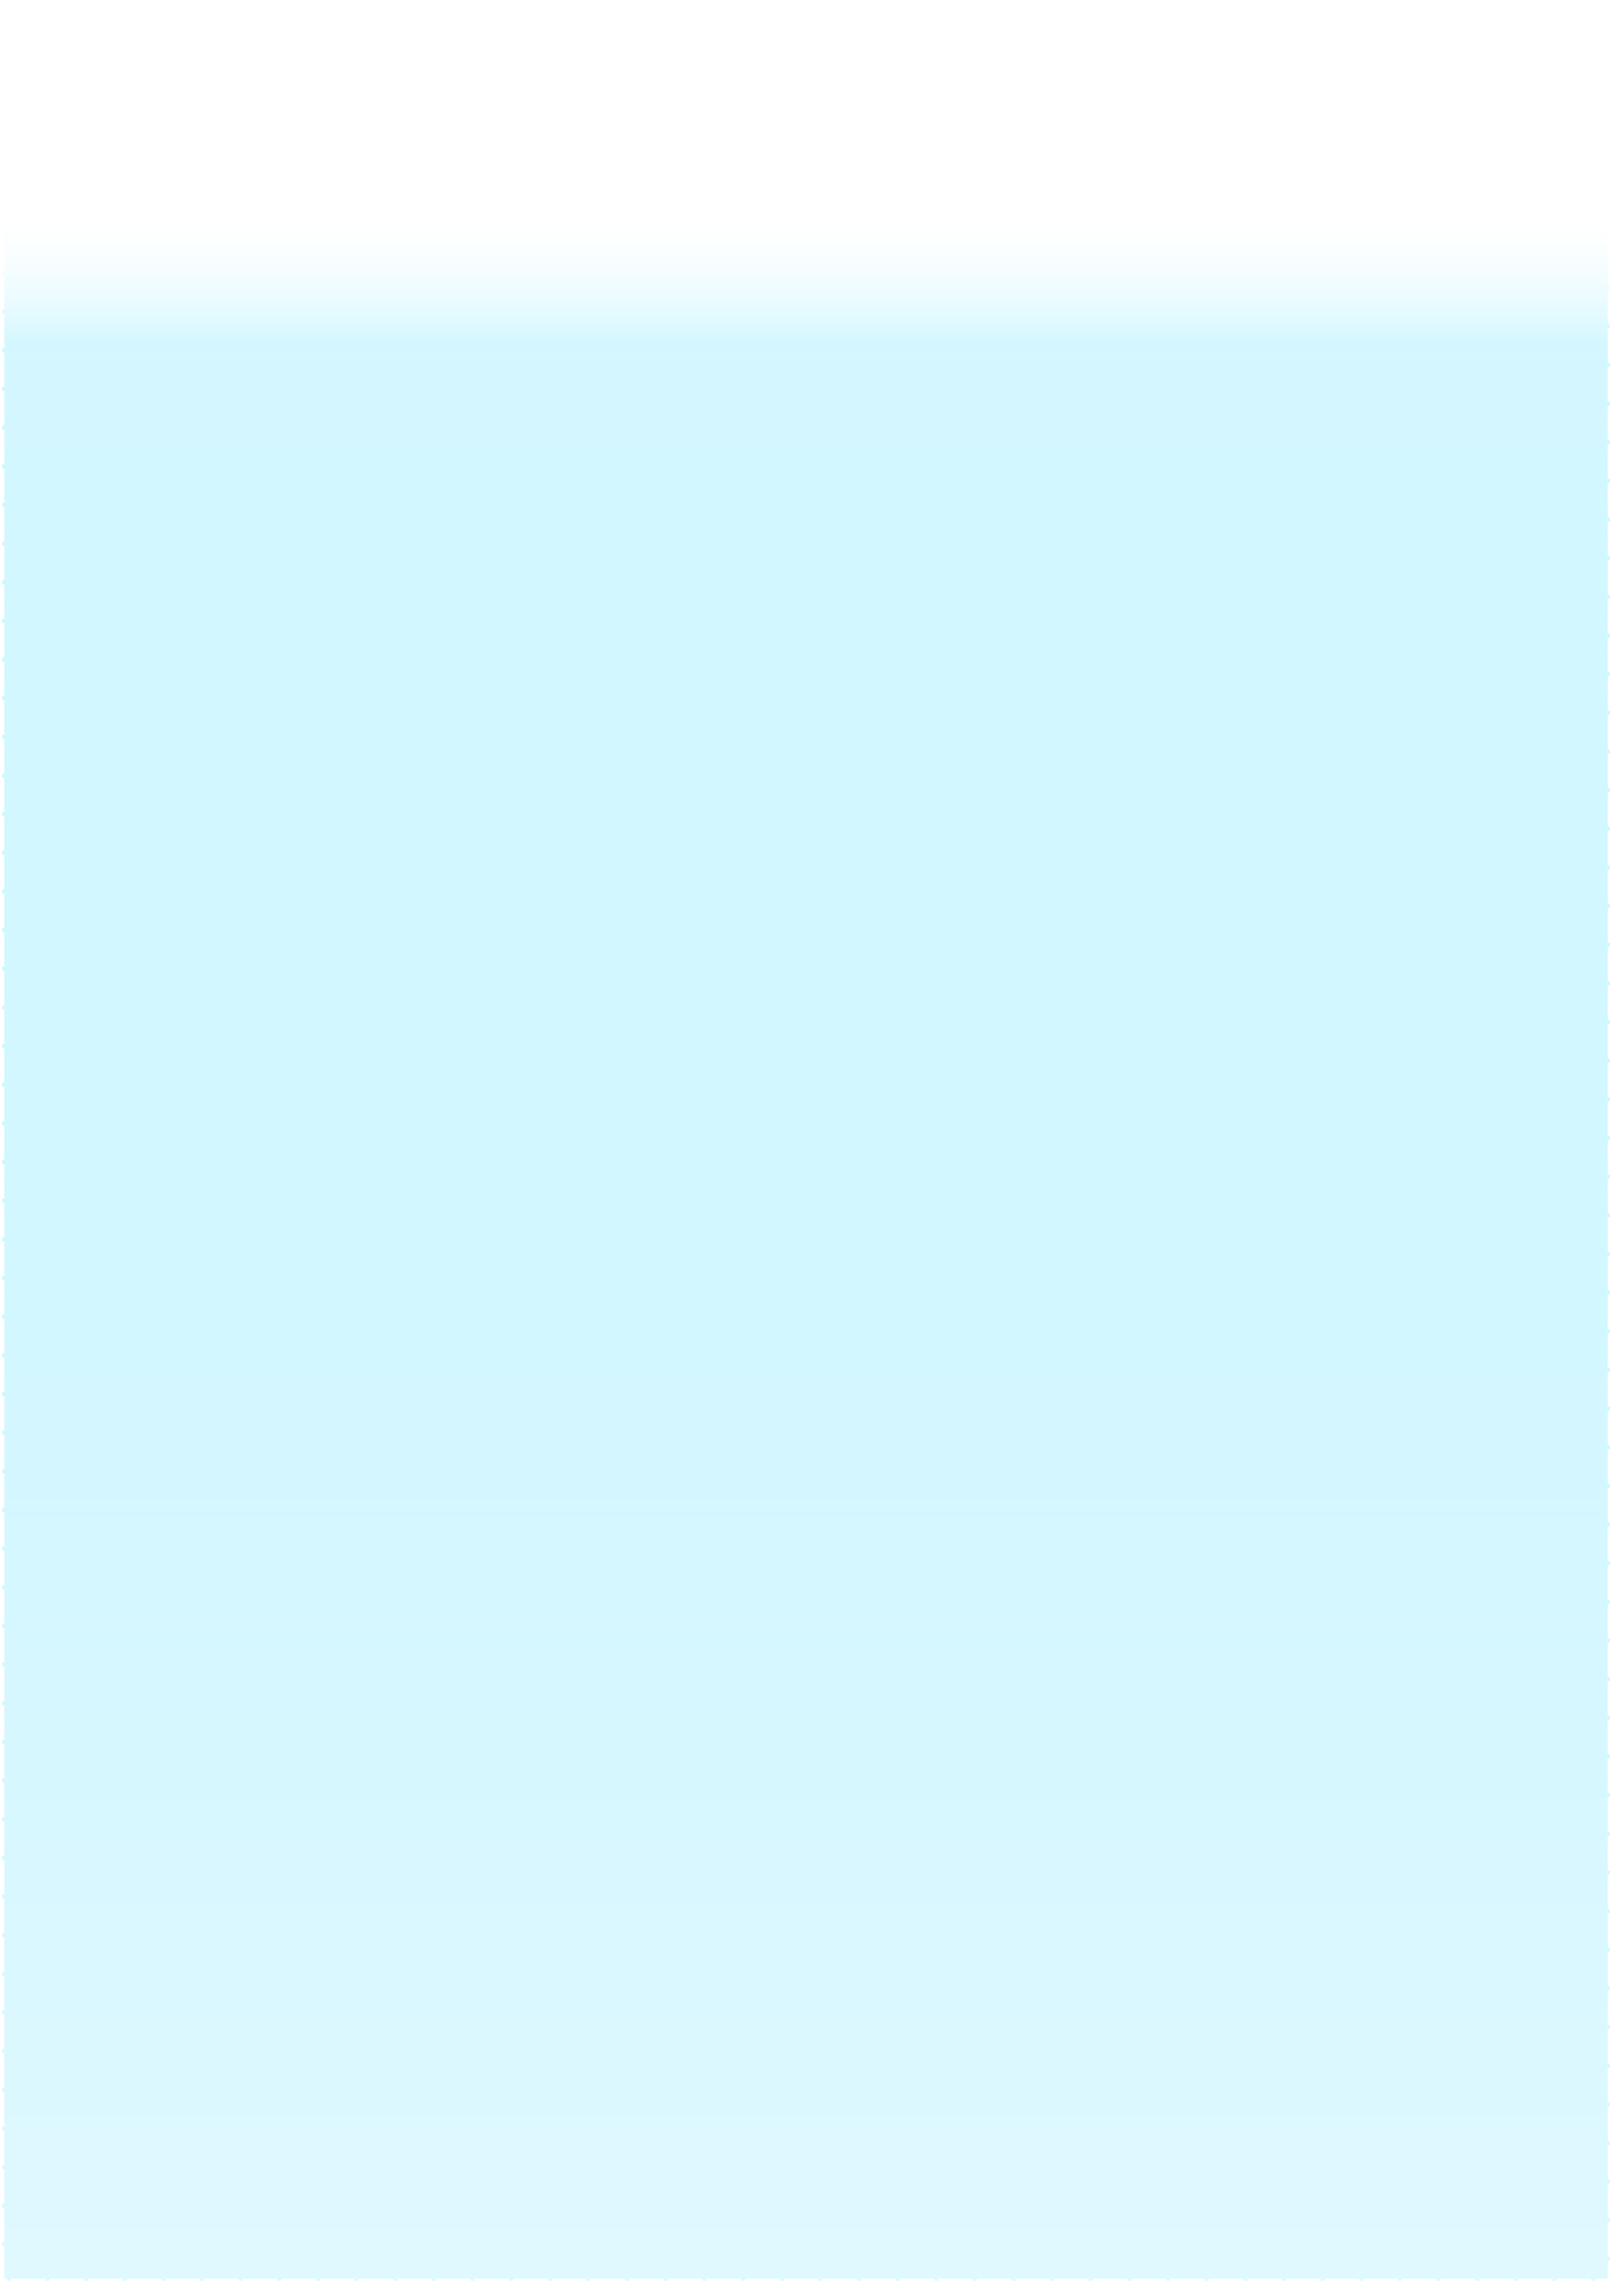
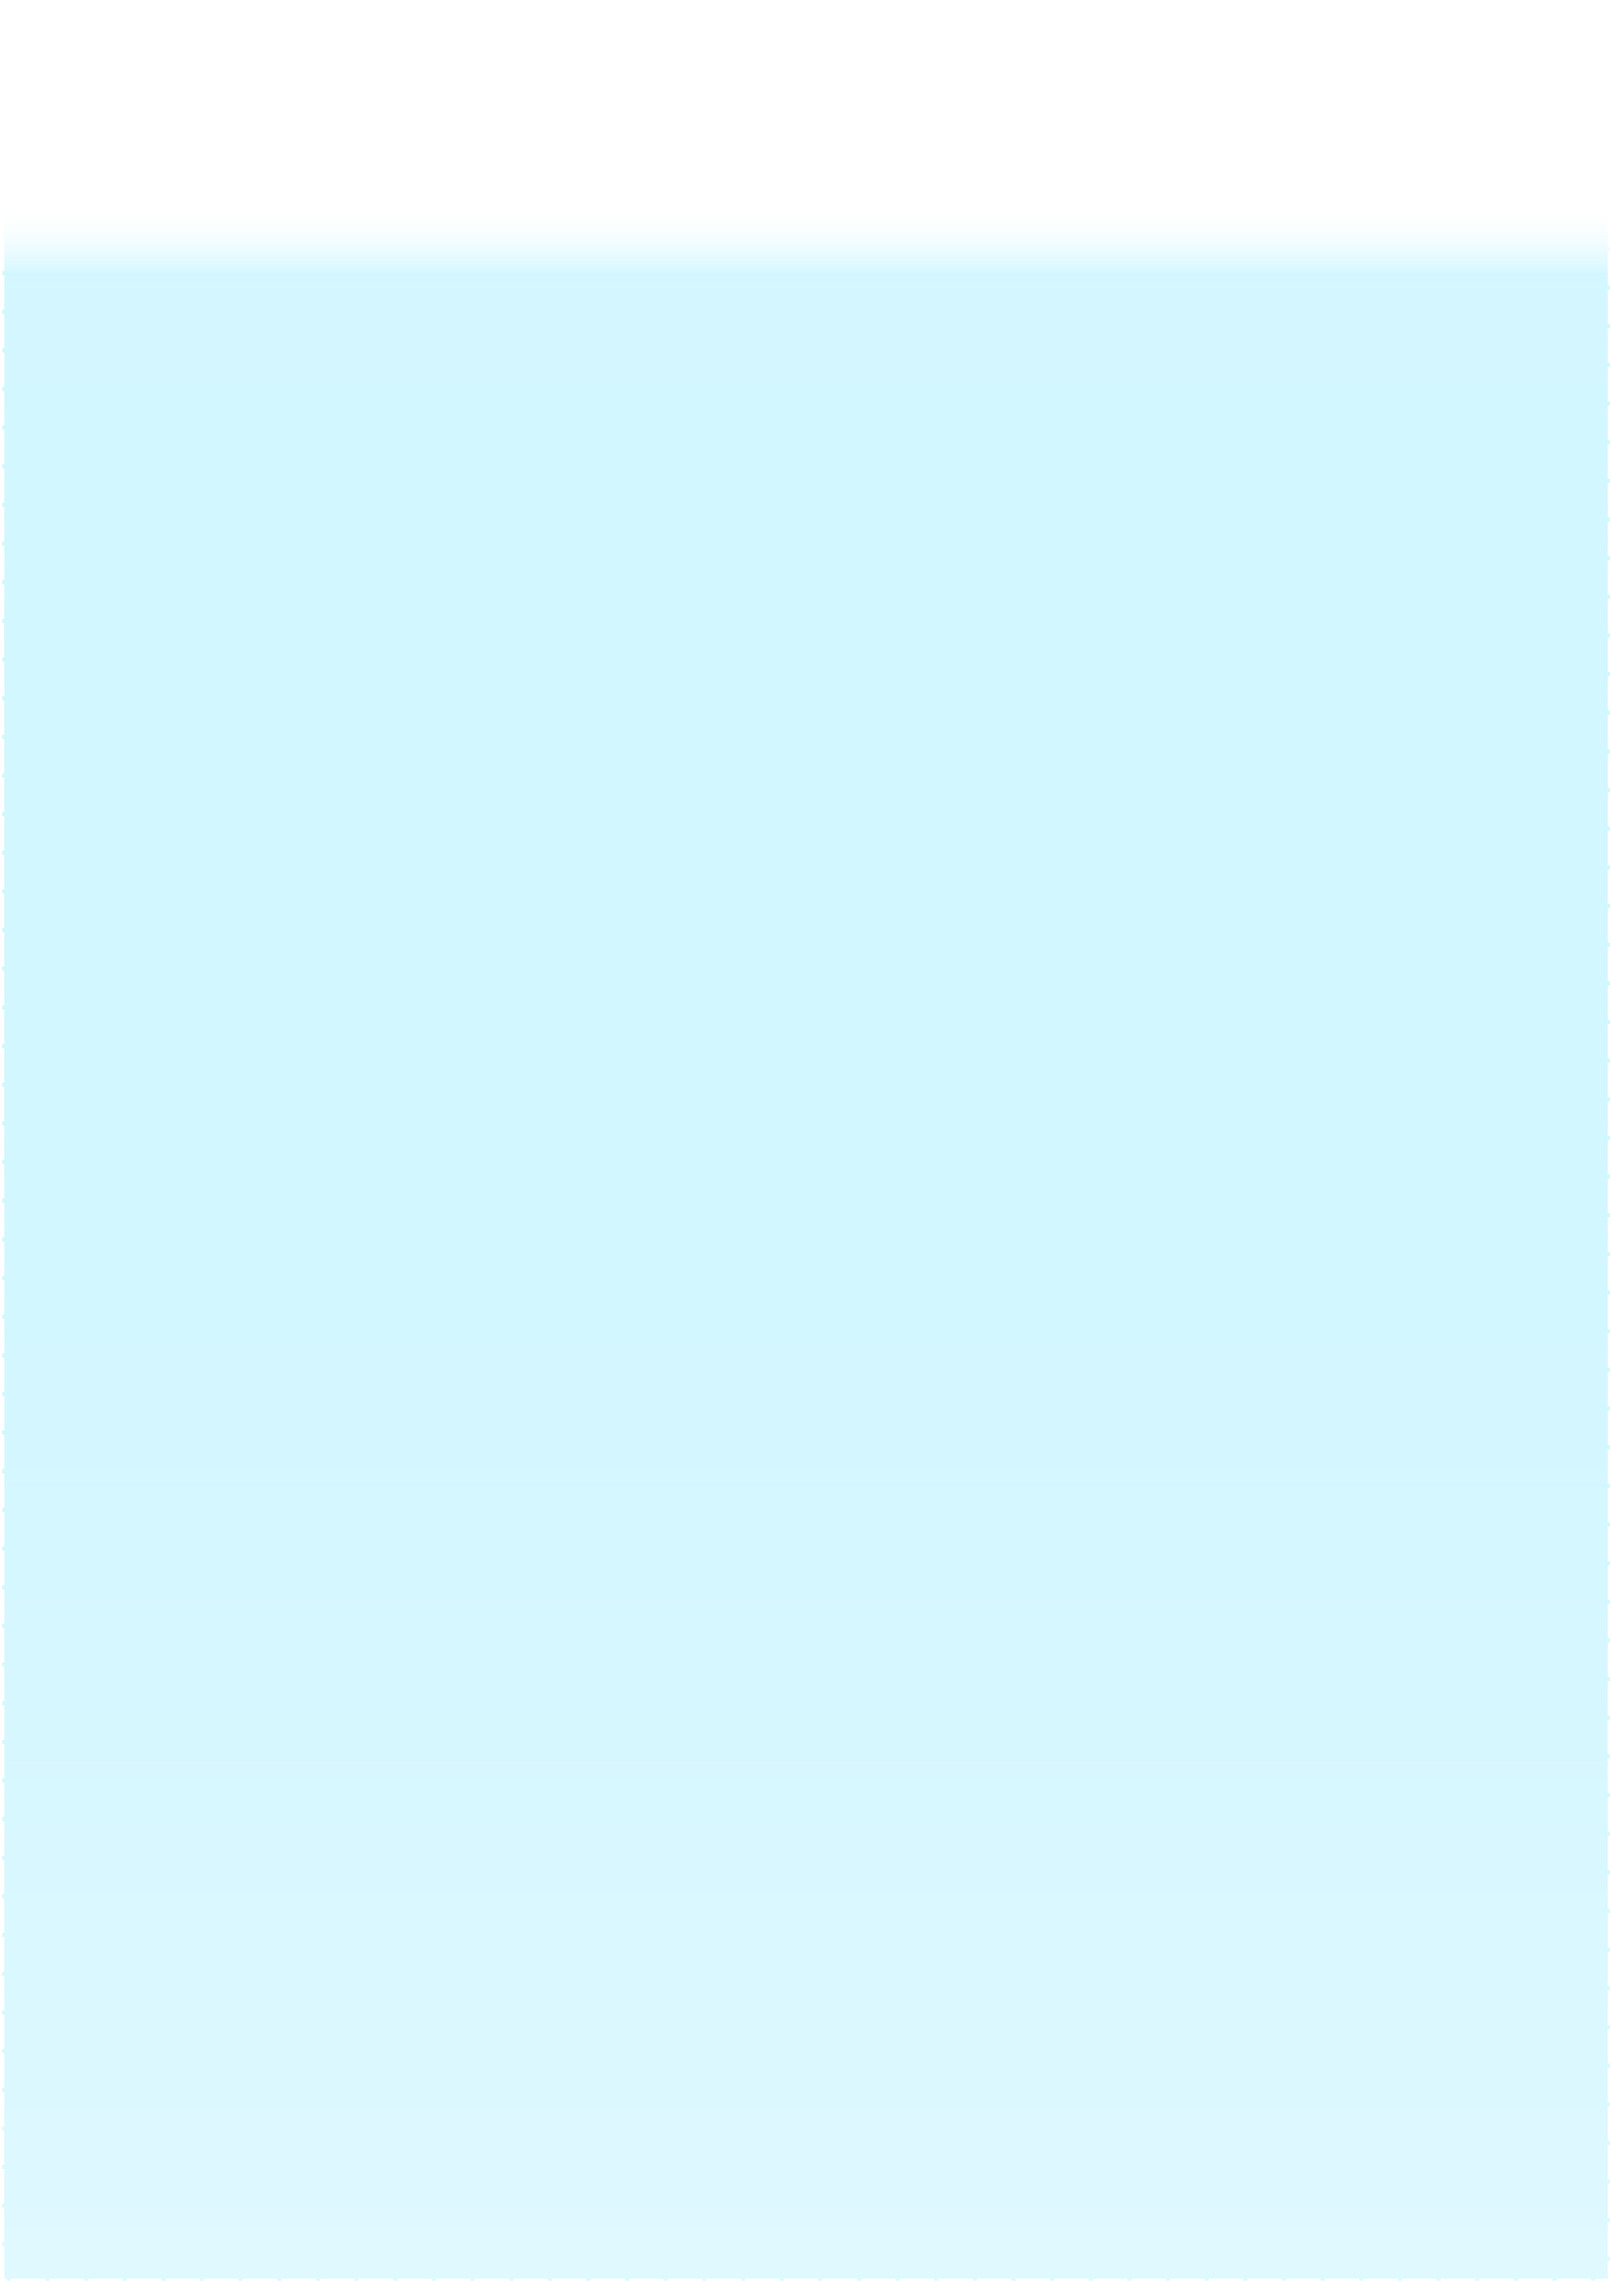
[Modelica2014] final version of the Modelica Poster

Changed region(s): [[0.0, 0.0934, 0.9962, 0.1556]]

diff --git a/Modelica2014/poster/poster.tex b/Modelica2014/poster/poster.tex
@@ -40,6 +40,9 @@
 		%bgColorOne=white,
 		columns=3,
 		eyecatcher=false,
+		colspacing=6pt,
+		linewidth=1pt,
+		headerheight=0.085\textheight,
 		textborder=rectangle,
 		boxColorOne=white,
 		 % Background color of the content boxes
@@ -69,26 +72,27 @@ $^*${\{rhama.dwiputra, roustiam.chakirov, erwin.prassler\}@h-brs.de}, $^+${alexe
 %---------------------------------------
 
 	\headerbox{Background}{name=background, column=0, row=0}{
-		The \emph{youBot} is a mobile manipulator designed to serve as the reference platform for industry, research and education \cite{Bischoff2011}.
-		Due to its frequent use for educational purpose or investigation of new methods, a model of the youBot is highly advantageous.  
+		The \emph{youBot} is designed to serve as the reference platform for industry, research and education \cite{Bischoff2011}.
+		Due to its frequent use for educational purpose and experiments, a model of the youBot is advantageous.  
 	}
 %---------------------------------------
 % Approach
 %---------------------------------------
 	
 	\headerbox{Approach}{name=Approach, column=1, row=0, span=2}{
-\begin{wrapfigure}{r}{0.44\textwidth}
+\begin{wrapfigure}{r}{0.46\textwidth}
    \begin{center}
    \vspace{-5pt}
-	\includegraphics[width=0.44\textwidth]{\imagedirectory{AbstractionLayer}}\\
+	\includegraphics[width=0.43\textwidth]{\imagedirectory{AbstractionLayer}}\\
  	\label{fig:abstraction-layers}
  	 \vspace{5pt}
  	 \smaller{Component-based development.}
  	 \end{center}
  \end{wrapfigure}	
 	
-The library is developed with emphasize on modularity, and re-usability.
-Additionally, the manipulator model is developed in abstraction layers where the lower layer provides a more detailed information and the upper layer provides the general overview of the system.
+The project emphasize on modularity and re-usability.
+The manipulator model is developed with a library for its components. 
+The model development is followed with a comparison test to observe the model accuracy.
 
 }
 
@@ -100,23 +104,47 @@ Additionally, the manipulator model is developed in abstraction layers where the
 
 	\headerbox{Result and Evaluation}{name=resultandevaluation, column=0, below=background, span=3}{
 \begin{figure}[H]
-   \vspace{-5pt}
+   \vspace{-10pt}
 	\begin{subfigure}[b]{0.72\textwidth}
-	\includegraphics[width=1.0\textwidth]{\imagedirectory{overview}}
+	\centering
+	\includegraphics[width=1\textwidth]{\imagedirectory{overview}}
 	\label{fig:youBot-overview}	
 	\end{subfigure}
 	~
 	\begin{subfigure}[b]{0.24\textwidth}
-	\includegraphics[width=1.0\textwidth]{\imagedirectory{parameters-and-evaluation}}
+	\centering
+	\includegraphics[width=1\textwidth]{\imagedirectory{parameters-and-evaluation}}
 	\label{fig:youBot-overview}	
 	\end{subfigure}\\
 	\centering   
-	\smaller{Model overview, parameter configuration and evaluation}
+	\smaller{Model overview, parameter configuration and comparison test.}
 \end{figure}
  \vspace{-10pt}
-A model is a representation of the actual system and the benefit of having a model only holds true when the model is accurate \cite{Fritzon2004}.
-the development of the manipulator model is followed by a test with the actual system.
+The benefit of having a model only holds true when the model is accurate \cite{Fritzon2004}.
+The result of the comparison test shows that the model reflects the actual system within a reasonable deviation.
 
+\begin{figure}[H]
+   \vspace{-5pt}
+	\begin{subfigure}[b]{0.3\textwidth}
+	\centering
+	\includegraphics[width=0.9\textwidth]{\imagedirectory{EvaluationErrorJointAngles}}
+	\label{fig:youBot-overview}	
+	\end{subfigure}
+	~
+	\begin{subfigure}[b]{0.3\textwidth}
+	\centering
+	\includegraphics[width=0.9\textwidth]{\imagedirectory{EvaluationJoint3}}
+	\label{fig:EvaluationJoint3}	
+	\end{subfigure}
+	~
+	\begin{subfigure}[b]{0.3\textwidth}
+	\centering
+	\includegraphics[width=0.9\textwidth]{\imagedirectory{EvaluationJoint5}}
+	\label{fig:youBot-overview}	
+	\end{subfigure}\\
+	\centering  
+	\smaller{Evaluation result}
+\end{figure}
 
 	
 	}
@@ -126,8 +154,8 @@ the development of the manipulator model is followed by a test with the actual s
 %---------------------------------------
 
 	\headerbox{Future Work}{name=FutureWork, column=0, below=resultandevaluation, span=3}{
-Possible improvements for the developed Modelica library is the development of a more accurate motor model and a more comprehensive evaluation of the manipulator component (the controller components, the power consumption and the dynamic properties).
-The manipulator model is planned to be tested with other Modelica tools (OpenModelica, jModelica) and used for hardware-in-the-loop experiments.
+Possible improvements is the development of a more accurate motor model and a more comprehensive evaluation of the manipulator model.
+The manipulator model is planned to be tested with other Modelica tools (e.g., OpenModelica \cite{Fritzon2006}) and used for hardware-in-the-loop experiments.
 
 	}
 
@@ -152,8 +180,9 @@ We gratefully acknowledge the continued support of the Bonn-Rhein-Sieg Universit
 \begin{thebibliography}{1}							% Simple bibliography with widest label of 1
 \itemsep=-0.01em										% Save space between the separation
 \setlength{\baselineskip}{0.4em}					% Save space with longer lines
-\bibitem{Bischoff2011} R. Bischoff, U. Huggenberger, and E. Prassler, \emph{``Kuka youbot - a mobile manipulator for research and education''}, in \emph{IEEE Int. Conf. on Robotics and Automat. (ICRA)}, pp. 1-4, May 2011.
+\bibitem{Bischoff2011} R. Bischoff, U. Huggenberger, and E. Prassler, \emph{Kuka youbot - a mobile manipulator for research and education}, in \emph{IEEE Int. Conf. on Robotics and Automat. (ICRA)}, pp. 1-4, May 2011.
 \bibitem{Fritzon2004} P. Fritzson, \emph{Principles of Object-Oriented Modeling and Simulation With Modelica 2.1.} IEEE Press, 2004.
+\bibitem{Fritzon2006} P. Fritzson et al., \emph{OpenModelica - A Free Open-Source Environment for System Modeling, Simulation, and Teaching} in \emph{IEEE Int. Conf. on Control Appl.}, 2006.
 \end{thebibliography}
 
 	}
